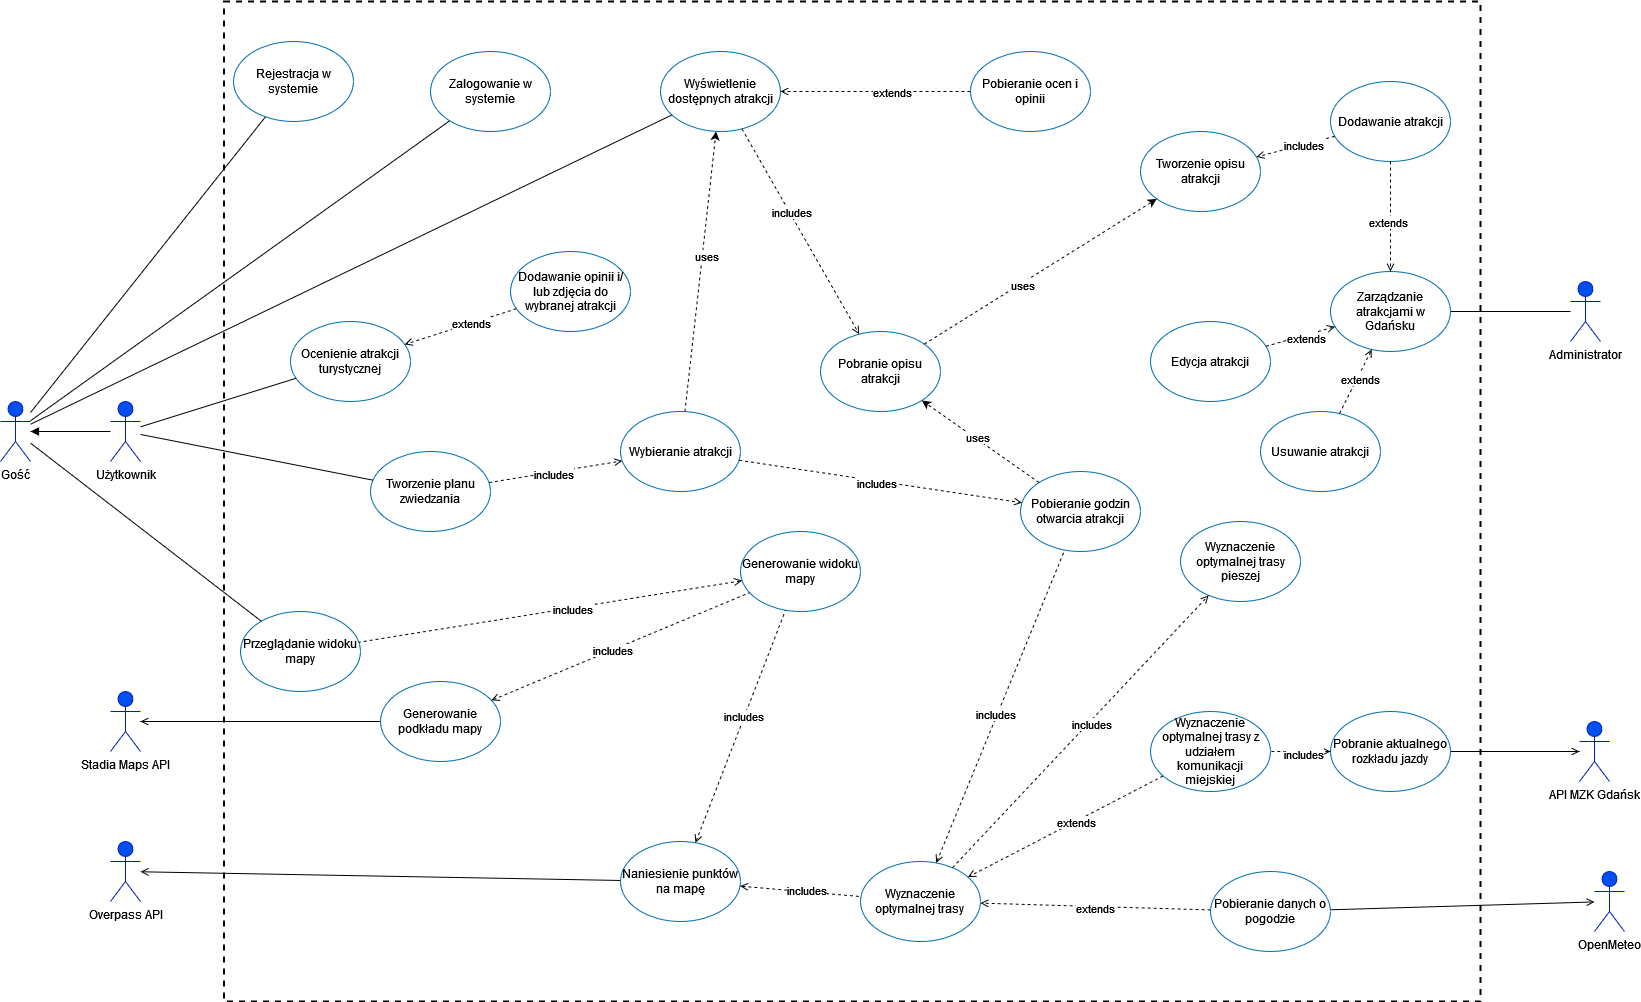
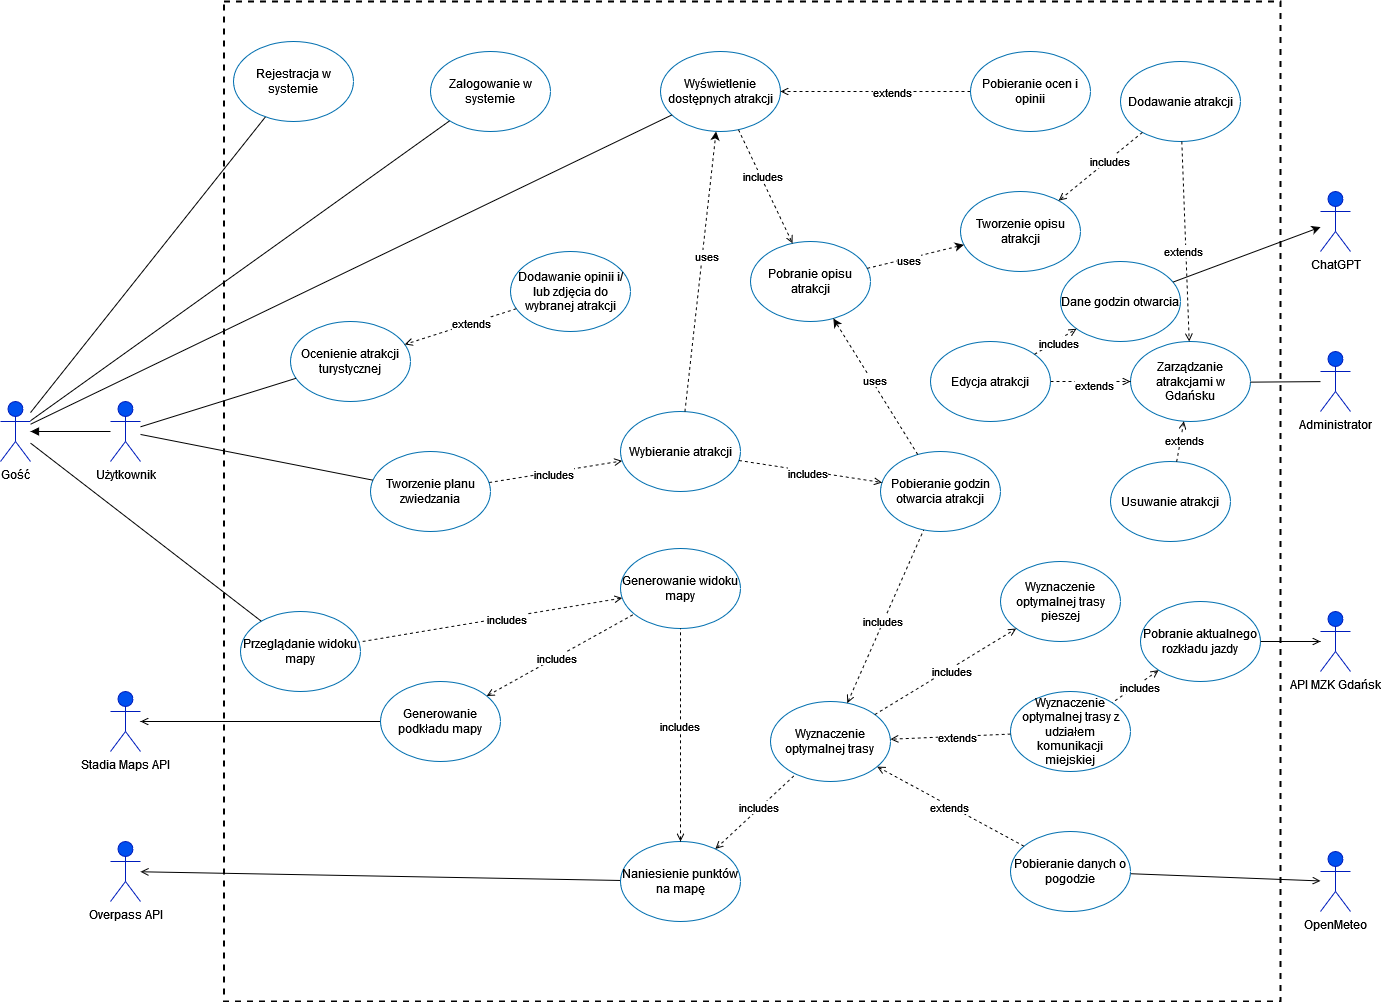
x

diff --git a/Documentation/chapters/analiza-wymagań.tex b/Documentation/chapters/analiza-wymagań.tex
@@ -758,14 +758,25 @@ Na rysunku 4.1 znajduje się diagram przedstawiający przypadki użycia dla proj
     \centering
     \includegraphics[width=1\textwidth]{attachments/Przypadki_Uzycia-final}
     \caption{Przypadki użycia cały projekt}
-    \label{fig:przypadki-uzycia}
+    \label{fig:przypadki-uzycia1}
     \end{figure}
-
+Poniżej przedstawiamy przypadki użycia dla dwóch aktorów gościa oraz zalogowanego użytkownika.
 
 
     \begin{figure}[H]
         \centering
         \includegraphics[width=1\textwidth]{attachments/Użytkownik}
         \caption{Przypadki użycia aplikacji dla gościa i użytkownika}
-        \label{fig:przypadki-uzycia}
+        \label{fig:przypadki-uzycia2}
         \end{figure}
+
+Przypadki użycia dotyczący aktorów ChatGPT oraz Administrator został przedstawionny na rysunku 4.3.
+
+\begin{figure}[H]
+    \centering
+    \includegraphics[width=1\textwidth]{attachments/admin}
+    \caption{Przypadki użycia panel administracjny}
+    \label{fig:przypadki-uzycia3}
+    \end{figure}
+
+Przypadek użycia dla serwisów przekazujący informacje do bazy danych jest widoczny na rysunku 4.4
